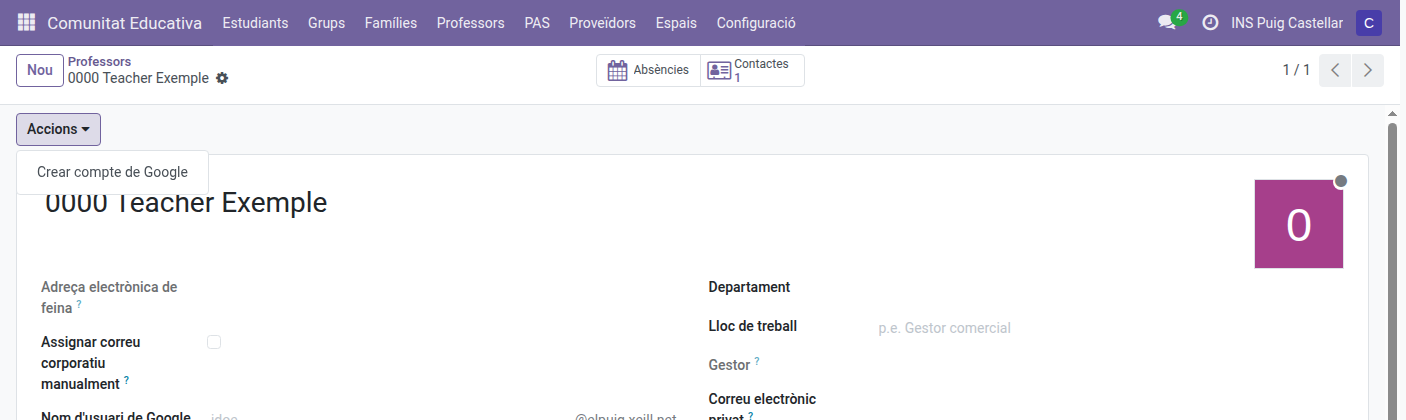
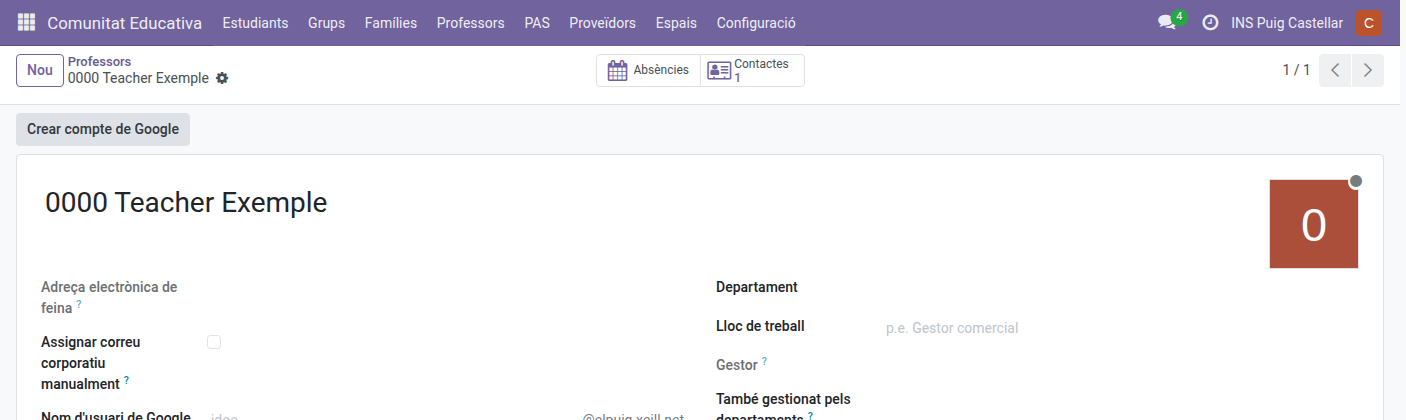
Manuals and screenshots: name the lone action's button instead of the Actions menu (#639)

diff --git a/tests/test_docs_screenshots_head_of_studies.py b/tests/test_docs_screenshots_head_of_studies.py
@@ -363,14 +363,12 @@ class TestDocsScreenshotsHeadOfStudies(HttpCase, DocsScreenshotMixin):
         )
         self._capture(
             '/odoo/action-ems.action_employee_kanban/%d' % self.new_teacher.id,
-            # The form's Actions dropdown, open. Its menu is an overlay outside the form, hence
-            # the body; beyond_viewport=False because the dropdown closes when Chrome resizes the
-            # page.
+            # Create Google account is the only action that applies, so it is a plain header
+            # button rather than an Actions dropdown.
             'body', 'hos-staff-management-create-account.png',
-            login='doc_shot_hos', wait_for='.o_form_statusbar .o_ems_actions_toggle',
-            click='.o_form_statusbar .o_ems_actions_toggle',
-            wait_after='.o_ems_actions_menu button[name="action_create_google_account"]',
-            max_height=420, beyond_viewport=False,
+            login='doc_shot_hos',
+            wait_for='.o_form_statusbar button[name="action_create_google_account"]',
+            max_height=420,
         )
         self._capture(
             '/odoo/action-ems.action_strike_list/%d' % self.strike.id,

diff --git a/tests/test_docs_screenshots.py b/tests/test_docs_screenshots.py
@@ -474,7 +474,8 @@ class TestDocsScreenshots(DocsScreenshotMixin, HttpCase):
             '/odoo/action-ems.action_convalidation/%d' % resolved.id,
             '.o_form_view', 'convalidations-secretary.png',
             login='doc_shot_secretary',
-            wait_for=".o_form_statusbar .o_ems_actions_toggle",
+            # Its only action, so a plain header button rather than an Actions dropdown.
+            wait_for=".o_form_statusbar button[name='action_complete']",
             max_height=420,
         )
 

diff --git a/docs/es/head_of_studies/absences.md b/docs/es/head_of_studies/absences.md
@@ -53,14 +53,14 @@ Ahí tienes las solicitudes de tu área, y se abre con **Esperándome**: las que
 
 **Tu parte tiene dos pasos cuando el tipo de ausencia exige justificante** (todos menos `Salud` y `ATRI`), porque a menudo el justificante solo existe después de la ausencia:
 
-1. **Recibida: pendiente de documentación** (icono de bandeja en el listado, o el menú **Acciones** de arriba del formulario). Das por recibida la solicitud sin haber visto todavía el justificante. Pasa a **En espera de documentación** y se pide el justificante a la persona. Si ya lo había adjuntado con la solicitud, pasa directamente a **Pendiente de validación**.
+1. **Recibida: pendiente de documentación** (icono de bandeja en el listado, o arriba del formulario). Das por recibida la solicitud sin haber visto todavía el justificante. Pasa a **En espera de documentación** y se pide el justificante a la persona. Si ya lo había adjuntado con la solicitud, pasa directamente a **Pendiente de validación**.
 2. Cuando la persona adjunta el justificante, la solicitud vuelve sola a ti como **Pendiente de validación**. Ábrela, revisa el justificante y usa **Validar documentación** (también un icono de validación en el listado). Entonces pasa a Dirección.
 
 Si el justificante no es válido, **Documentación insuficiente** te pide el motivo (obligatorio) y devuelve la solicitud a la persona (En espera de documentación) con un mensaje que lo incluye. La persona también lo ve arriba de la solicitud hasta que adjunta un justificante nuevo. Si el nuevo tampoco es válido, el diálogo se abre con el motivo anterior para que puedas modificarlo; cuando validas un justificante, el motivo se borra.
 
-**Si el justificante no llegará y no hace falta**, mientras la solicitud está **En espera de documentación** usa **Eximir del justificante** (menú **Acciones** de arriba del formulario). Pide confirmación y la solicitud continúa hacia Dirección como si se hubiera validado el justificante, pero su estado queda como **Eximido**, para distinguirlo de un justificante revisado. La persona deja de recibir recordatorios y recibe un mensaje que le dice que ya no hace falta. Dirección y el administrador también pueden hacerlo, y se deshace como cualquier otra decisión.
+**Si el justificante no llegará y no hace falta**, mientras la solicitud está **En espera de documentación** usa **Eximir del justificante** (arriba del formulario). Pide confirmación y la solicitud continúa hacia Dirección como si se hubiera validado el justificante, pero su estado queda como **Eximido**, para distinguirlo de un justificante revisado. La persona deja de recibir recordatorios y recibe un mensaje que le dice que ya no hace falta. Dirección y el administrador también pueden hacerlo, y se deshace como cualquier otra decisión.
 
-Para `Salud` y `ATRI` hay un solo paso: **Validar** (el pulgar en el listado). Una ausencia de `Salud` pasa entonces directamente a Dirección. Una `ATRI` se detiene siempre antes en **Pendiente de confirmar ATRI**: la persona tiene que confirmar que la ha solicitado en el portal ATRI (**Acciones > Confirmo que está solicitada en ATRI**), y solo entonces llega a Dirección. Validas tú primero a propósito, porque a menudo se elige ATRI para lo que no lo es, y al revés: corrige el tipo antes de validar. A la persona se le recuerda igual que con un justificante pendiente, y a ti se te avisa una vez si sigue sin confirmar a los pocos días de la ausencia.
+Para `Salud` y `ATRI` hay un solo paso: **Validar** (el pulgar en el listado). Una ausencia de `Salud` pasa entonces directamente a Dirección. Una `ATRI` se detiene siempre antes en **Pendiente de confirmar ATRI**: la persona tiene que confirmar que la ha solicitado en el portal ATRI (**Confirmo que está solicitada en ATRI**, arriba del formulario), y solo entonces llega a Dirección. Validas tú primero a propósito, porque a menudo se elige ATRI para lo que no lo es, y al revés: corrige el tipo antes de validar. A la persona se le recuerda igual que con un justificante pendiente, y a ti se te avisa una vez si sigue sin confirmar a los pocos días de la ausencia.
 
 La cruz rechaza, en cualquiera de estos pasos. Cuando decides desde el formulario, vuelves al listado.
 
@@ -106,7 +106,7 @@ Si la ausencia es de día entero o de unas horas concretas lo controla la casill
 
 **Asistencia del personal > Ausencias > Administración > Ausencias solicitadas** se abre con **Esperándome**: todas las ausencias **Pendiente Dirección**, y las ausencias de los propios jefes de área, que gestionas tú como su jefe (con los botones del jefe descritos más arriba). Cada una te deja también una actividad ("Revisión de dirección de la ausencia").
 
-Revísalas desde el listado con los iconos junto a **Estado Dirección**, o abre una y usa el menú **Acciones** de arriba, que te devuelve al listado al acabar:
+Revísalas desde el listado con los iconos junto a **Estado Dirección**, o abre una y usa las acciones de arriba del formulario, que te devuelve al listado al acabar:
 
 | Icono | Botón | Resultado |
 |---|---|---|
@@ -137,7 +137,7 @@ El panel de búsqueda de la izquierda filtra por **Estado**.
 
 ## Deshacer una decisión
 
-Una decisión tomada por error se deshace con **Deshacer la última decisión**: el icono de flecha atrás al final de la fila en el listado, o el menú **Acciones** de arriba del formulario. Pide confirmación y retrocede un paso cada vez:
+Una decisión tomada por error se deshace con **Deshacer la última decisión**: el icono de flecha atrás al final de la fila en el listado, o arriba del formulario. Pide confirmación y retrocede un paso cada vez:
 
 | Estado | Al deshacer queda en |
 |---|---|

diff --git a/docs/ca/head_of_studies/absences.md b/docs/ca/head_of_studies/absences.md
@@ -53,14 +53,14 @@ Hi tens les sol·licituds de la teva àrea, i s'obre amb **Pendent de mi**: les 
 
 **La teva part té dos passos quan el tipus d'absència exigeix justificant** (tots menys `Salut` i `ATRI`), perquè sovint el justificant només existeix després de l'absència:
 
-1. **Rebuda: pendent de documentació** (icona de safata al llistat, o el menú **Accions** de dalt del formulari). Dones per rebuda la sol·licitud sense haver vist encara el justificant. Passa a **En espera de documentació** i es demana el justificant a la persona. Si ja l'havia adjuntat amb la sol·licitud, passa directament a **Pendent de validació**.
+1. **Rebuda: pendent de documentació** (icona de safata al llistat, o a dalt del formulari). Dones per rebuda la sol·licitud sense haver vist encara el justificant. Passa a **En espera de documentació** i es demana el justificant a la persona. Si ja l'havia adjuntat amb la sol·licitud, passa directament a **Pendent de validació**.
 2. Quan la persona adjunta el justificant, la sol·licitud et torna sola com a **Pendent de validació**. Obre-la, revisa el justificant i fes servir **Validar documentació** (també una icona de validació al llistat). Llavors passa a Direcció.
 
 Si el justificant no és vàlid, **Documentació insuficient** et demana el motiu (obligatori) i torna la sol·licitud a la persona (En espera de documentació) amb un missatge que l'inclou. La persona també el veu a dalt de la sol·licitud fins que adjunta un justificant nou. Si el nou tampoc no és vàlid, el diàleg s'obre amb el motiu anterior perquè el puguis modificar; quan valides un justificant, el motiu s'esborra.
 
-**Si el justificant no arribarà i no cal**, mentre la sol·licitud és **En espera de documentació** fes servir **Eximir del justificant** (menú **Accions** de dalt del formulari). Demana confirmació i la sol·licitud continua cap a Direcció com si s'hagués validat el justificant, però el seu estat queda com a **Eximit**, per distingir-lo d'un justificant revisat. La persona deixa de rebre recordatoris i rep un missatge que li diu que ja no cal. Direcció i l'administrador també ho poden fer, i es desfà com qualsevol altra decisió.
+**Si el justificant no arribarà i no cal**, mentre la sol·licitud és **En espera de documentació** fes servir **Eximir del justificant** (a dalt del formulari). Demana confirmació i la sol·licitud continua cap a Direcció com si s'hagués validat el justificant, però el seu estat queda com a **Eximit**, per distingir-lo d'un justificant revisat. La persona deixa de rebre recordatoris i rep un missatge que li diu que ja no cal. Direcció i l'administrador també ho poden fer, i es desfà com qualsevol altra decisió.
 
-Per a `Salut` i `ATRI` hi ha un sol pas: **Validar** (el polze al llistat). Una absència de `Salut` passa llavors directament a Direcció. Una `ATRI` s'atura sempre abans a **Pendent de confirmar ATRI**: la persona ha de confirmar que l'ha sol·licitada al portal ATRI (**Accions > Confirmo que està sol·licitada a ATRI**), i només llavors arriba a Direcció. Valides tu primer expressament, perquè sovint es tria ATRI per al que no ho és, i a l'inrevés: corregeix el tipus abans de validar. A la persona se li recorda igual que amb un justificant pendent, i a tu se t'avisa un cop si continua sense confirmar al cap d'uns dies de l'absència.
+Per a `Salut` i `ATRI` hi ha un sol pas: **Validar** (el polze al llistat). Una absència de `Salut` passa llavors directament a Direcció. Una `ATRI` s'atura sempre abans a **Pendent de confirmar ATRI**: la persona ha de confirmar que l'ha sol·licitada al portal ATRI (**Confirmo que està sol·licitada a ATRI**, a dalt del formulari), i només llavors arriba a Direcció. Valides tu primer expressament, perquè sovint es tria ATRI per al que no ho és, i a l'inrevés: corregeix el tipus abans de validar. A la persona se li recorda igual que amb un justificant pendent, i a tu se t'avisa un cop si continua sense confirmar al cap d'uns dies de l'absència.
 
 La creu rebutja, en qualsevol d'aquests passos. Quan decideixes des del formulari, tornes al llistat.
 
@@ -106,7 +106,7 @@ Si l'absència és de dia sencer o d'unes hores concretes ho controla la casella
 
 **Assistència del personal > Absències > Administració > Absències sol·licitades** s'obre amb **Pendent de mi**: totes les absències **Pendent Direcció**, i les absències dels mateixos caps d'àrea, que gestiones tu com a cap seu (amb els botons del cap descrits més amunt). Cadascuna et deixa també una activitat ("Revisió de direcció de l'absència").
 
-Revisa-les des del llistat amb les icones del costat d'**Estat Direcció**, o obre'n una i fes servir el menú **Accions** de dalt, que et torna al llistat en acabar:
+Revisa-les des del llistat amb les icones del costat d'**Estat Direcció**, o obre'n una i fes servir les accions de dalt del formulari, que et torna al llistat en acabar:
 
 | Icona | Botó | Resultat |
 |---|---|---|
@@ -137,7 +137,7 @@ El panell de cerca de l'esquerra filtra per **Estat**.
 
 ## Desfer una decisió
 
-Una decisió presa per error es desfà amb **Desfés l'última decisió**: la icona de fletxa enrere al final de la fila al llistat, o el menú **Accions** de dalt del formulari. Demana confirmació i retrocedeix un pas cada vegada:
+Una decisió presa per error es desfà amb **Desfés l'última decisió**: la icona de fletxa enrere al final de la fila al llistat, o a dalt del formulari. Demana confirmació i retrocedeix un pas cada vegada:
 
 | Estat | En desfer queda en |
 |---|---|

diff --git a/docs/en/head_of_studies/absences.md b/docs/en/head_of_studies/absences.md
@@ -53,14 +53,14 @@ That lists your area's requests, opening on **Waiting For Me**: the ones pending
 
 **Your side has two steps when the absence type requires a supporting document** (every type except `Health` and `ATRI`), because the document often only exists after the absence:
 
-1. **Received: pending documentation** (inbox icon in the list, or the **Actions** menu at the top of the form). You acknowledge the request without having seen the document yet. It becomes **Awaiting documentation** and the employee is asked for the document. If they had already attached it with the request, it goes straight to **Pending validation**.
+1. **Received: pending documentation** (inbox icon in the list, or at the top of the form). You acknowledge the request without having seen the document yet. It becomes **Awaiting documentation** and the employee is asked for the document. If they had already attached it with the request, it goes straight to **Pending validation**.
 2. When the employee attaches the document, the request comes back to you on its own as **Pending validation**. Open it, check the document and use **Validate documentation** (also a tick icon in the list). It then goes to Direction.
 
 If the document is not valid, **Documentation insufficient** asks you why (required) and sends the request back to the employee (Awaiting documentation) with a message that includes your reason. The employee also sees it at the top of the request until they attach a new document. If the new document is not valid either, the dialog opens with your previous reason so you can edit it; once you validate a document, the reason is cleared.
 
-**If the document is not going to arrive and is not needed**, while the request is **Awaiting documentation** use **Exempt from supporting document** (the **Actions** menu at the top of the form). It asks for confirmation, and the request goes on to Direction as if the document had been validated, but its status is **Waived**, so it is told apart from a document somebody checked. The employee stops receiving reminders and gets a message saying it is no longer required. Direction and the administrator can do it too, and it is undone like any other decision.
+**If the document is not going to arrive and is not needed**, while the request is **Awaiting documentation** use **Exempt from supporting document** (at the top of the form). It asks for confirmation, and the request goes on to Direction as if the document had been validated, but its status is **Waived**, so it is told apart from a document somebody checked. The employee stops receiving reminders and gets a message saying it is no longer required. Direction and the administrator can do it too, and it is undone like any other decision.
 
-For `Health` and `ATRI` there is a single step: **Validate** (the thumb in the list). A `Health` absence then goes straight to Direction. An `ATRI` one always stops first at **Pending ATRI confirmation**: the employee has to confirm they have requested it on the ATRI portal (**Actions > I confirm it is requested in ATRI**), and only then does it reach Direction. You validate first on purpose, because ATRI is often picked for what is not, and the other way round: correct the type before validating. The employee is reminded like for a missing supporting document, and you are told once if it stays unconfirmed a few days after the absence.
+For `Health` and `ATRI` there is a single step: **Validate** (the thumb in the list). A `Health` absence then goes straight to Direction. An `ATRI` one always stops first at **Pending ATRI confirmation**: the employee has to confirm they have requested it on the ATRI portal (**I confirm it is requested in ATRI**, at the top of the form), and only then does it reach Direction. You validate first on purpose, because ATRI is often picked for what is not, and the other way round: correct the type before validating. The employee is reminded like for a missing supporting document, and you are told once if it stays unconfirmed a few days after the absence.
 
 The cross refuses, at any of these steps. Once you decide from the form, you are taken back to the list.
 
@@ -108,7 +108,7 @@ Direction goes last: a request reaches you once its Head has validated it, toget
 
 **Employee Attendances > Absences > Management > Requested absences** opens on **Waiting For Me**: every absence **Pending Direction**, plus the Area Managers' own absences, which you handle as their Head (with the Head's buttons described above). Each one also leaves you an activity ("Direction review of the absence").
 
-Review them from the list with the icons beside **Direction status**, or open one and use the **Actions** menu at the top, which takes you back to the list once done:
+Review them from the list with the icons beside **Direction status**, or open one and use the actions at the top of the form, which takes you back to the list once done:
 
 | Icon | Button | Result |
 |---|---|---|
@@ -139,7 +139,7 @@ The search panel on the left filters by **Status**.
 
 ## Undoing a decision
 
-A decision taken by mistake is taken back with **Undo the last decision**: the arrow-back icon at the end of the row in the list, or the **Actions** menu at the top of the form. It asks for confirmation and goes back one step at a time:
+A decision taken by mistake is taken back with **Undo the last decision**: the arrow-back icon at the end of the row in the list, or at the top of the form. It asks for confirmation and goes back one step at a time:
 
 | Status | Undoing it leaves it |
 |---|---|

diff --git a/docs/es/secretary/absences.md b/docs/es/secretary/absences.md
@@ -22,13 +22,13 @@ Pertenecer a secretaría no da ese permiso: el resto del equipo pide sus ausenci
 
 Ahí salen solo las solicitudes de tu área, en estado **Pendiente** mientras esperan que las des por recibidas.
 
-Cuando el tipo de ausencia exige justificante (todos menos `Salud` y `ATRI`), tu parte tiene dos pasos: primero **Recibida: pendiente de documentación**, y **Validar documentación** cuando la persona ha adjuntado el justificante (la solicitud vuelve sola a ti). Si el justificante no es válido, **Documentación insuficiente** lo devuelve a la persona, con el motivo que escribas. Si el justificante no llegará y no hace falta, **Eximir del justificante** (menú **Acciones** del formulario) deja continuar la solicitud sin él. Para `Salud` y `ATRI`, un solo **Validar**. Una ausencia `ATRI` espera después a que la persona confirme que está solicitada en ATRI antes de llegar a Dirección.
+Cuando el tipo de ausencia exige justificante (todos menos `Salud` y `ATRI`), tu parte tiene dos pasos: primero **Recibida: pendiente de documentación**, y **Validar documentación** cuando la persona ha adjuntado el justificante (la solicitud vuelve sola a ti). Si el justificante no es válido, **Documentación insuficiente** lo devuelve a la persona, con el motivo que escribas. Si el justificante no llegará y no hace falta, **Eximir del justificante** (arriba del formulario) deja continuar la solicitud sin él. Para `Salud` y `ATRI`, un solo **Validar**. Una ausencia `ATRI` espera después a que la persona confirme que está solicitada en ATRI antes de llegar a Dirección.
 
 ![Lista de ausencias, con las acciones Aprobar/Rechazar en una solicitud pendiente](../../assets/head_of_studies/hos-absences-list.png)
 
 Tienes acceso al motivo escrito y al justificante de tu gente, y puedes ajustar los campos **Suma las horas al informe mensual** y **¿Día entero?**, además de corregir el tipo de ausencia.
 
-**Rechazar pide antes el motivo** (opcional, y se envía solo a la persona). Una decisión tomada por error, también un rechazo, se deshace con **Deshacer la última decisión**, desde la fila del listado o desde el menú **Acciones** del formulario (ver [Deshacer una decisión](../head_of_studies/absences.md#deshacer-una-decisión)); una solicitud aprobada también hay que deshacerla antes de poder corregirla. El justificante se puede adjuntar en cualquier momento, también en una solicitud ya recibida.
+**Rechazar pide antes el motivo** (opcional, y se envía solo a la persona). Una decisión tomada por error, también un rechazo, se deshace con **Deshacer la última decisión**, desde la fila del listado o desde arriba del formulario (ver [Deshacer una decisión](../head_of_studies/absences.md#deshacer-una-decisión)); una solicitud aprobada también hay que deshacerla antes de poder corregirla. El justificante se puede adjuntar en cualquier momento, también en una solicitud ya recibida.
 
 Una vez la validas, Dirección revisa cada ausencia en último lugar, en la columna **Estado Dirección**, que ves pero no puedes modificar. La columna **Estado** muestra en qué punto está la solicitud.
 

diff --git a/docs/en/secretary/absences.md b/docs/en/secretary/absences.md
@@ -22,13 +22,13 @@ Working in the secretariat does not grant this: everyone else on the team reques
 
 Only your area's requests appear there, in state **Pending** while they await your acknowledgement.
 
-When the absence type requires a supporting document (every type except `Health` and `ATRI`), your side has two steps: **Received: pending documentation** first, and **Validate documentation** once the employee has attached the document (the request comes back to you on its own). If the document is not valid, **Documentation insufficient** returns it to the employee, with the reason you write. If the document is not going to arrive and is not needed, **Exempt from supporting document** (the form's **Actions** menu) lets the request go on without it. For `Health` and `ATRI`, a single **Validate**. An `ATRI` absence then waits for the employee to confirm it is requested in ATRI before it reaches Direction.
+When the absence type requires a supporting document (every type except `Health` and `ATRI`), your side has two steps: **Received: pending documentation** first, and **Validate documentation** once the employee has attached the document (the request comes back to you on its own). If the document is not valid, **Documentation insufficient** returns it to the employee, with the reason you write. If the document is not going to arrive and is not needed, **Exempt from supporting document** (at the top of the form) lets the request go on without it. For `Health` and `ATRI`, a single **Validate**. An `ATRI` absence then waits for the employee to confirm it is requested in ATRI before it reaches Direction.
 
 ![Absences list, with Approve/Refuse actions on a pending request](../../assets/head_of_studies/hos-absences-list.png)
 
 You have access to the written reason and the supporting document of your own people, and you can adjust **Adds the hours to the monthly report** and **Whole day?**, as well as correcting the absence type.
 
-**Refusing asks for the reason first** (optional, and sent to the employee alone). A decision taken by mistake, a refusal included, is taken back with **Undo the last decision**, from the row in the list or from the form's **Actions** menu (see [Undoing a decision](../head_of_studies/absences.md#undoing-a-decision)); an approved request also has to be undone before it can be corrected. The supporting document can be attached at any point, on a request that is already received included.
+**Refusing asks for the reason first** (optional, and sent to the employee alone). A decision taken by mistake, a refusal included, is taken back with **Undo the last decision**, from the row in the list or from the top of the form (see [Undoing a decision](../head_of_studies/absences.md#undoing-a-decision)); an approved request also has to be undone before it can be corrected. The supporting document can be attached at any point, on a request that is already received included.
 
 Once you validate it, Direction reviews each absence last, in the **Direction status** column, which you can see but not change. The **Status** column shows where the request stands.
 

diff --git a/docs/ca/secretary/absences.md b/docs/ca/secretary/absences.md
@@ -22,13 +22,13 @@ Pertànyer a secretaria no dona aquest permís: la resta de l'equip demana les s
 
 Hi surten només les sol·licituds de la teva àrea, en estat **Pendent** mentre esperen que les donis per rebudes.
 
-Quan el tipus d'absència exigeix justificant (tots menys `Salut` i `ATRI`), la teva part té dos passos: primer **Rebuda: pendent de documentació**, i **Validar documentació** quan la persona ha adjuntat el justificant (la sol·licitud et torna sola). Si el justificant no és vàlid, **Documentació insuficient** el torna a la persona, amb el motiu que hi escriguis. Si el justificant no arribarà i no cal, **Eximir del justificant** (menú **Accions** del formulari) deixa continuar la sol·licitud sense ell. Per a `Salut` i `ATRI`, un sol **Validar**. Una absència `ATRI` espera després que la persona confirmi que està sol·licitada a ATRI abans d'arribar a Direcció.
+Quan el tipus d'absència exigeix justificant (tots menys `Salut` i `ATRI`), la teva part té dos passos: primer **Rebuda: pendent de documentació**, i **Validar documentació** quan la persona ha adjuntat el justificant (la sol·licitud et torna sola). Si el justificant no és vàlid, **Documentació insuficient** el torna a la persona, amb el motiu que hi escriguis. Si el justificant no arribarà i no cal, **Eximir del justificant** (a dalt del formulari) deixa continuar la sol·licitud sense ell. Per a `Salut` i `ATRI`, un sol **Validar**. Una absència `ATRI` espera després que la persona confirmi que està sol·licitada a ATRI abans d'arribar a Direcció.
 
 ![Llista d'absències, amb les accions Aprovar/Rebutjar en una sol·licitud pendent](../../assets/head_of_studies/hos-absences-list.png)
 
 Tens accés al motiu escrit i al justificant de la teva gent, i pots ajustar els camps **Suma les hores a l'informe mensual** i **Dia sencer?**, a més de corregir el tipus d'absència.
 
-**Rebutjar demana abans el motiu** (opcional, i s'envia només a la persona). Una decisió presa per error, també un rebuig, es desfà amb **Desfés l'última decisió**, des de la fila del llistat o des del menú **Accions** del formulari (vegeu [Desfer una decisió](../head_of_studies/absences.md#desfer-una-decisió)); una sol·licitud aprovada també cal desfer-la abans de poder corregir-la. El justificant es pot adjuntar en qualsevol moment, també en una sol·licitud ja rebuda.
+**Rebutjar demana abans el motiu** (opcional, i s'envia només a la persona). Una decisió presa per error, també un rebuig, es desfà amb **Desfés l'última decisió**, des de la fila del llistat o des de dalt del formulari (vegeu [Desfer una decisió](../head_of_studies/absences.md#desfer-una-decisió)); una sol·licitud aprovada també cal desfer-la abans de poder corregir-la. El justificant es pot adjuntar en qualsevol moment, també en una sol·licitud ja rebuda.
 
 Un cop la valides, Direcció revisa cada absència en últim lloc, a la columna **Estat Direcció**, que veus però no pots modificar. La columna **Estat** mostra en quin punt és la sol·licitud.
 

diff --git a/docs/es/head_of_studies/staff-management.md b/docs/es/head_of_studies/staff-management.md
@@ -78,7 +78,7 @@ El Jefe de departamento y el Jefe de seminario de un docente también pueden ver
 
 Al guardar la ficha de un profesor nuevo con el nombre y el correo personal, la cuenta corporativa se crea automáticamente en unos momentos: no hace falta pulsar nada.
 
-Las acciones que gestionan la cuenta corporativa están en el menú **Acciones** de la barra superior de la ficha. Cuáles aparecen depende del estado de la cuenta:
+Las acciones que gestionan la cuenta corporativa están arriba de la ficha, agrupadas en el menú **Acciones** cuando hay más de una. Cuáles aparecen depende del estado de la cuenta:
 
 | Botón | Cuándo aparece | Qué hace |
 |-------|----------------|----------|
@@ -88,7 +88,7 @@ Las acciones que gestionan la cuenta corporativa están en el menú **Acciones**
 | **Reactivar cuenta de Google** | La cuenta está suspendida | La vuelve a activar |
 | **Restablecer contraseña de Google** | La cuenta existe y no está suspendida | Asigna a la cuenta una contraseña temporal nueva, que hay que cambiar en el primer inicio de sesión, y entrega credenciales nuevas (ver más abajo). Para quien ha olvidado la contraseña |
 
-![Menú Acciones con Crear cuenta de Google en una ficha de profesorado sin cuenta todavía](../../assets/head_of_studies/hos-staff-management-create-account.png)
+![El botón Crear cuenta de Google en una ficha de profesorado sin cuenta todavía](../../assets/head_of_studies/hos-staff-management-create-account.png)
 
 Cuando la cuenta se crea, o se restablece su contraseña, las credenciales viajan por dos vías: se guarda un PDF en la ficha, en el bloque **Cuenta de Google** de la pestaña **Recursos humanos**, y se envía un correo con la contraseña a la dirección personal. La ficha solo conserva el último PDF, y solo lo ven los roles que gestionan la cuenta. Si la cuenta no se puede crear porque faltan datos obligatorios, se publica una nota en el historial de mensajes de la ficha indicando exactamente qué campos faltan.
 

diff --git a/docs/en/head_of_studies/staff-management.md b/docs/en/head_of_studies/staff-management.md
@@ -78,7 +78,7 @@ A teacher's Department Chief and Seminar Chief can also see these two fields, re
 
 When you save a new teacher's record with the name and personal email filled in, the corporate account is created automatically in a few moments: you don't need to press anything.
 
-The actions that manage the teacher's corporate account are in the **Actions** menu on the top bar of their record. Which ones appear depends on the state the account is in:
+The actions that manage the teacher's corporate account are at the top of their record, grouped in the **Actions** menu when more than one applies. Which ones appear depends on the state the account is in:
 
 | Button | When it appears | What it does |
 |--------|-----------------|--------------|
@@ -88,7 +88,7 @@ The actions that manage the teacher's corporate account are in the **Actions** m
 | **Reactivate Google account** | The account is suspended | Reactivates it |
 | **Reset Google password** | The account exists and is not suspended | Gives the account a new temporary password, to be changed on first login, and delivers new credentials (see below). For a teacher who has forgotten their password |
 
-![Actions menu with Create Google account on a teacher's record with no account yet](../../assets/head_of_studies/hos-staff-management-create-account.png)
+![The Create Google account button on a teacher's record with no account yet](../../assets/head_of_studies/hos-staff-management-create-account.png)
 
 When the account is created, or its password is reset, the credentials travel two ways: a PDF is saved on the teacher's record, in the **Google account** block of the **Human Resources** tab, and an email with the password is sent to their personal address. The record only keeps the latest PDF, and only the roles that manage the account can see it. If the account cannot be created because some required data is missing, a note is posted in the record's message history explaining exactly which fields are missing.
 

diff --git a/docs/ca/head_of_studies/staff-management.md b/docs/ca/head_of_studies/staff-management.md
@@ -78,7 +78,7 @@ El Cap de departament i el Cap de seminari d'un docent també poden veure aquest
 
 Quan deseu la fitxa d'un professor nou amb el nom i el correu personal, el compte corporatiu es crea automàticament en pocs moments: no cal prémer res.
 
-Les accions que gestionen el compte corporatiu són al menú **Accions** de la barra superior de la fitxa. Quines apareixen depèn de l'estat del compte:
+Les accions que gestionen el compte corporatiu són a dalt de la fitxa, agrupades al menú **Accions** quan n'hi ha més d'una. Quines apareixen depèn de l'estat del compte:
 
 | Botó | Quan apareix | Què fa |
 |------|--------------|--------|
@@ -88,7 +88,7 @@ Les accions que gestionen el compte corporatiu són al menú **Accions** de la b
 | **Reactiva el compte de Google** | El compte està suspès | El torna a activar |
 | **Restablir la contrasenya de Google** | El compte existeix i no està suspès | Assigna al compte una contrasenya temporal nova, que cal canviar en el primer inici de sessió, i lliura credencials noves (vegeu més avall). Per a qui ha oblidat la contrasenya |
 
-![Menú Accions amb Crea el compte de Google en una fitxa de professorat sense compte encara](../../assets/head_of_studies/hos-staff-management-create-account.png)
+![El botó Crear compte de Google en una fitxa de professorat sense compte encara](../../assets/head_of_studies/hos-staff-management-create-account.png)
 
 Quan el compte es crea, o se'n restableix la contrasenya, les credencials viatgen per dues vies: es desa un PDF a la fitxa, al bloc **Compte de Google** de la pestanya **Recursos Humans**, i s'envia un correu amb la contrasenya a l'adreça personal. La fitxa només conserva l'últim PDF, i només el veuen els rols que gestionen el compte. Si el compte no es pot crear perquè falten dades obligatòries, es publica una nota a l'historial de missatges de la fitxa que indica exactament quins camps falten.
 

diff --git a/docs/ca/teachers/absences.md b/docs/ca/teachers/absences.md
@@ -137,7 +137,7 @@ El filtre **Els meus justificants pendents** mostra les sol·licituds que espere
 
 **Absències ATRI: confirmar la sol·licitud.** Una absència ATRI es concedeix al portal de la Generalitat, no a EMS. Per això, quan el teu cap l'ha validada, la sol·licitud s'atura sempre a **Pendent de confirmar ATRI** abans de passar a Direcció. No vol dir que ningú hagi vist que falti a ATRI: només se't demana que confirmis que l'has sol·licitada allà.
 
-- Si ja l'has sol·licitada a ATRI, obre la sol·licitud i fes servir **Accions > Confirmo que està sol·licitada a ATRI** en aquell mateix moment. Llavors passa a Direcció.
+- Si ja l'has sol·licitada a ATRI, obre la sol·licitud i fes servir **Confirmo que està sol·licitada a ATRI**, a dalt del formulari, en aquell mateix moment. Llavors passa a Direcció.
 - Si no, sol·licita-la primer al portal (l'avís de dalt de la sol·licitud té l'enllaç) i després confirma.
 
 Mentre no estigui confirmada, un cop passada l'absència reps un recordatori cada dia, i al cap d'uns dies s'avisa el teu cap. El filtre **Les meves confirmacions d'ATRI pendents** mostra les sol·licituds que ho esperen. Si després Direcció comprova que l'absència no consta a ATRI, o que la documentació que hi has aportat no és suficient, retorna la sol·licitud a aquest estat i en reps el motiu, que també es mostra a la sol·licitud. El que falti es resol al portal ATRI, no adjuntant un justificant a EMS; quan ho hagis fet, torna-ho a confirmar.
